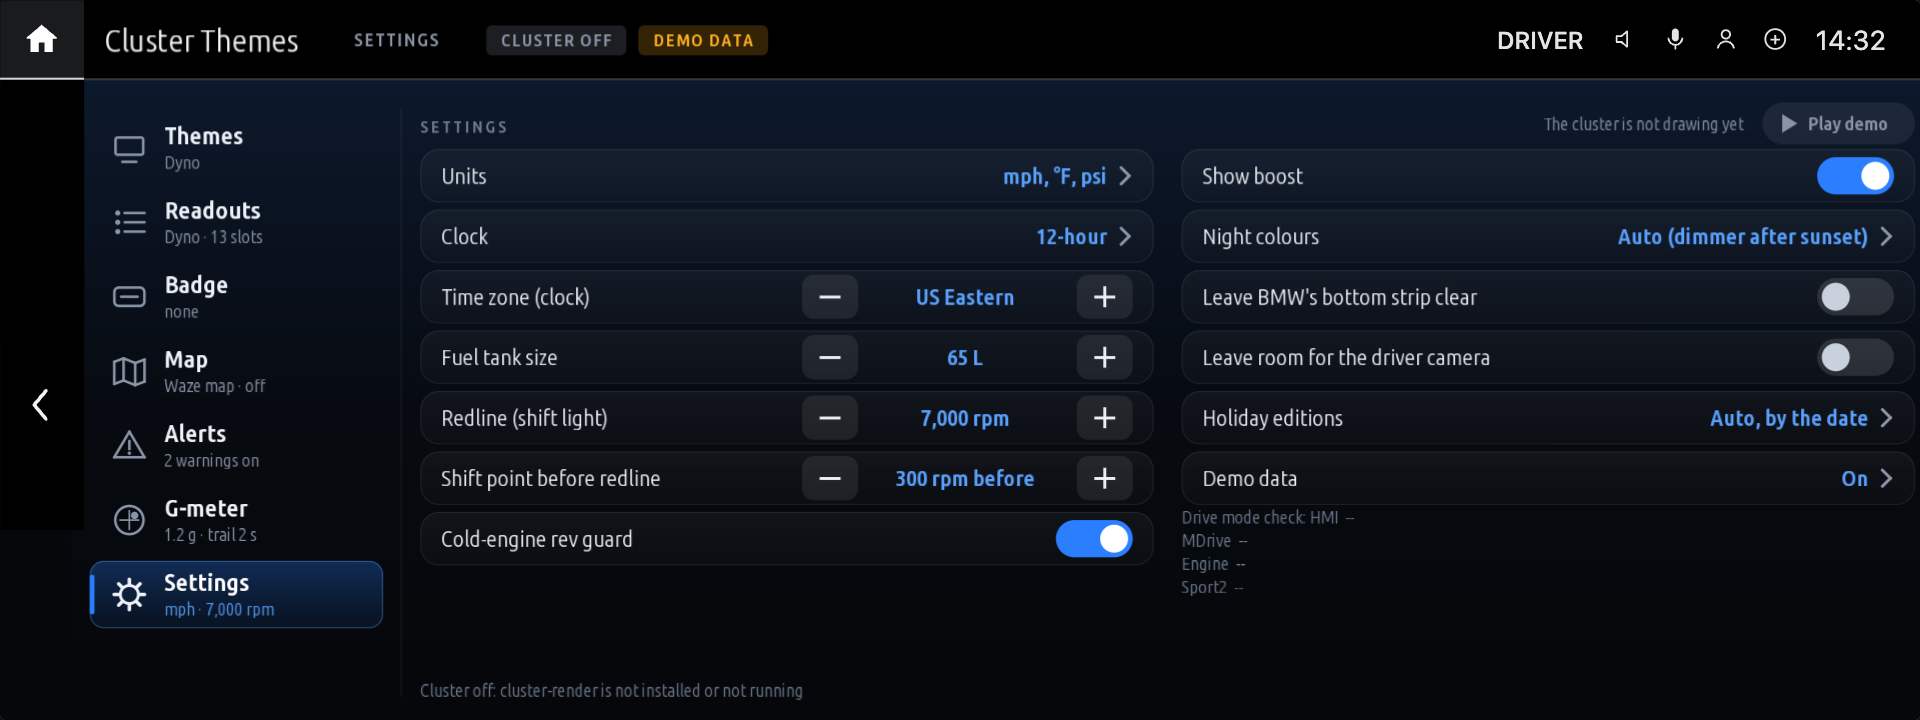
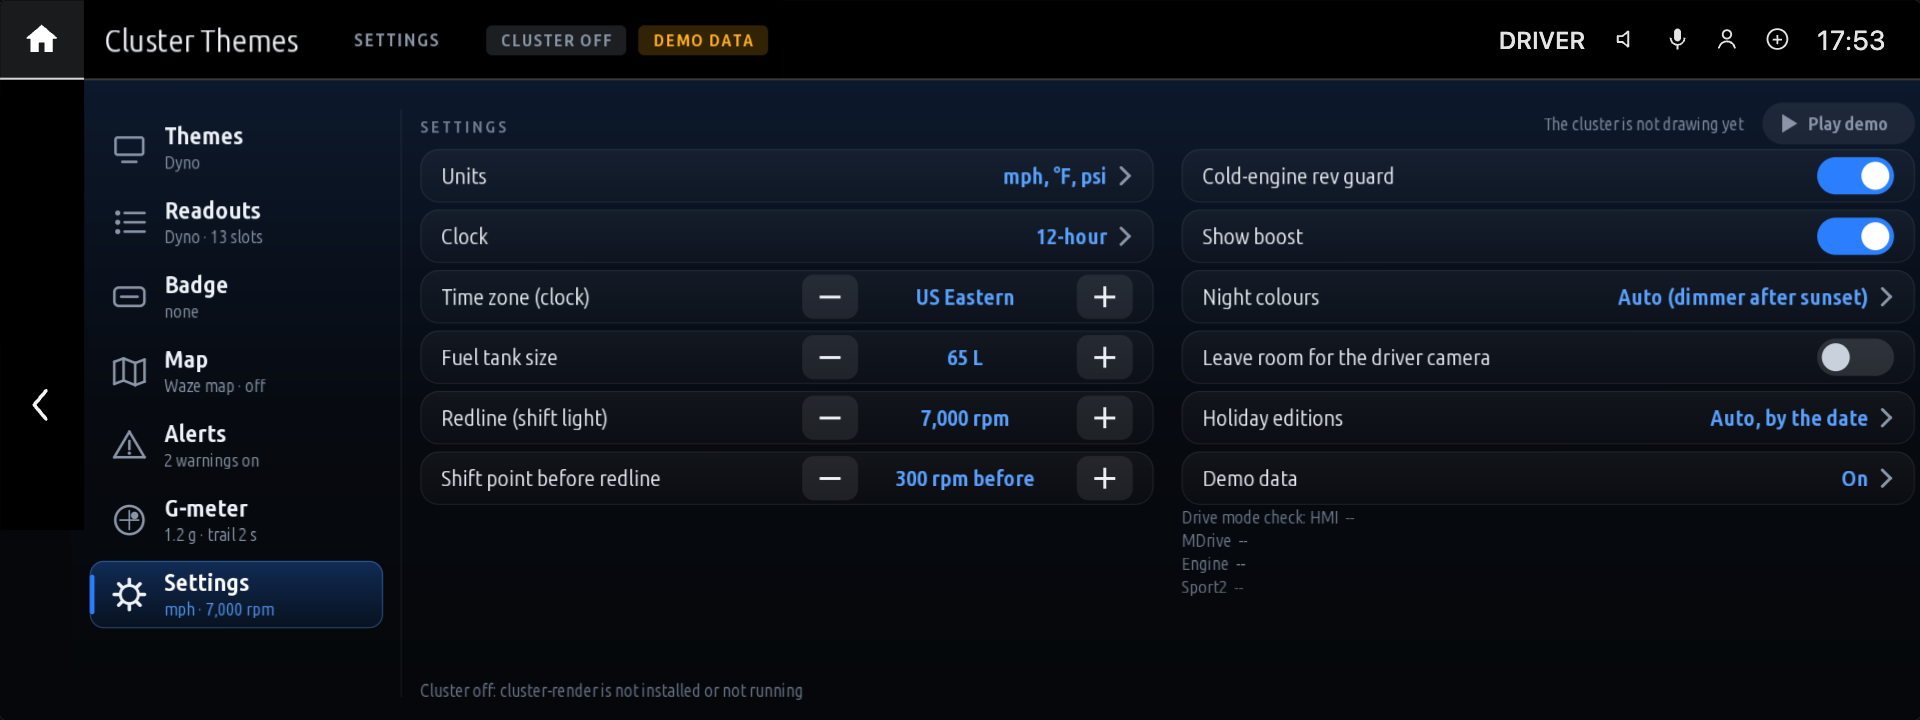
Cluster Themes 0.17.7 / HUD Widgets 0.14.5: gear letter only, switch gone

diff --git a/shared/hud.js b/shared/hud.js
@@ -1861,9 +1861,10 @@ class HudApp {
         this.nightOn = this._nightDim();
         if (this.nightOn) this.theme = dimTheme(this.theme, NIGHT_DIM);
         this.log.info('layout "' + layout.name + '", theme ' + this.theme.name + (this.layoutTheme ? '' : ' (' + this.setting('hudTheme') + ')'));
-        // full screen unless "Leave BMW's bottom strip clear" is on (Nov 14 2026): the layout's strip widgets (toggle
-        // "!stripClear", design/genlib.py full_screen) cover BMW's strip except a window over its drive mode and gear
-        // letter, and the theme's own strip row ("stripRow" l / r) shows the clock, range and outside temperature.
+        // full screen (Nov 14 2026): the layout's strip widgets (design/genlib.py full_screen) cover BMW's strip except a
+        // window over its gear letter, and the theme's own strip row ("stripRow" l / r) shows the clock, range and outside
+        // temperature. "Leave BMW's bottom strip clear" is gone again (0.17.7): with the gear letter uncovered BMW draws no
+        // black box (car test of 0.17.6), so the switch had nothing left to fix.
         // Copies, since the strip row's connection is set below.
         const shown = layout.widgets.filter((w) => !(w.toggle && !this._toggleOn(w.toggle)) && !(w.themes && w.themes.indexOf(this.themeName) < 0))
             .map((w) => (w.stripRow ? Object.assign({}, w) : w));

diff --git a/apps/cluster_themes/main.js b/apps/cluster_themes/main.js
@@ -27,7 +27,7 @@ mgu.run({
             title: ctx.spec.title, what: 'cluster',
             look: { name: 'Themes', style: 'hero', tags: { gt3: 'race dash', m: 'M8 style', sport: 'Live Cockpit', minimal: 'just the speed', roadster: 'round dials', track: 'tyres + temps', drag: '0-60 timer', rally: 'rev arc · G-meter', retro80s: '80s digital', cruise: 'calm · trip', dyno: 'safety tiles', ribbon: 'calm · holidays' } },
             tabs: ['look', 'readouts', 'badge', 'map', 'alerts', 'gmeter', 'settings'],
-            settings: ['units', 'clock', 'timeZone', 'tankLitres', 'redline', 'shiftBefore', 'coldGuard', 'showBoost', 'nightDim', 'stripClear', 'cameraNotch', 'holiday', 'demo'],
+            settings: ['units', 'clock', 'timeZone', 'tankLitres', 'redline', 'shiftBefore', 'coldGuard', 'showBoost', 'nightDim', 'cameraNotch', 'holiday', 'demo'],
             // the drive mode check's candidates this app's app.json listens to (issue #8; shared/hud.js modeDiagLines)
             modeCheck: ['HMI', 'MDrive', 'Engine', 'Sport2'],
         }).start();

diff --git a/apps/cluster_themes/README.md b/apps/cluster_themes/README.md
@@ -10,7 +10,7 @@ Redraws the whole instrument cluster in a theme of your choice. Open **Cluster T
 
 ## Themes
 
-Every theme fills the whole cluster and shows its own clock, range and outside temperature along the bottom, in the theme's style. To see BMW's own bottom strip instead (range, clock, street, drive mode, outside temperature), turn on Leave BMW's bottom strip clear on the Settings tab: the theme then ends just above it. Every theme shows the drive mode (Comfort, Sport and so on) next to the gear.
+Every theme fills the cluster and shows its own clock, range and outside temperature along the bottom, in the theme's style. Only BMW's gear letter at the bottom right stays uncovered: when a theme covers it, BMW draws a black box over the theme (issue #5). Every theme shows the drive mode (Comfort, Sport and so on) next to the gear.
 
 ### GT3
 
@@ -30,9 +30,9 @@ A race dash.
 A current M8's cluster, traced off a photo of it and drawn on black.
 
 - **Middle:** two bowed glass rev blades either side of the gear and speed, reading 0 to 7000 rpm like the M40i's own cluster. A red marker rides each blade at the rpm, the blade glows below it, and orange and red marks sit before and past your redline. The gear shows with its shifter programme: P, D3, S3 or M3, and the drive mode sits under the speed.
-- **Left:** a black card with a grey rim and four readouts where the M8 has its tyre block: boost, coolant, oil and intake air out of the box, each one changeable on the Readouts tab. The fuel dial sits over the card's lower corner, drawn like the M8's: a thin glass bracket inside a hatched chrome bezel, lit from the bottom up to the level, with a red streak at the level and another at the reserve.
-- **Right:** what the engine, chassis, steering and gearbox are set to, as four rows with a step bar, and the oil temperature dial, the same glass bracket (blue streak at the cold end, red at the hot end). The rows follow the drive mode buttons: Eco Pro, Comfort, Sport, Sport Plus and Sport Individual. The car only reports that an Individual setup is on, not what each part is set to, so those rows read INDIVIDUAL.
-- **Bottom:** the clock, range and outside temperature, or BMW's own strip with Leave BMW's bottom strip clear on.
+- **Left:** a black card with a grey rim and four readouts where the M8 has its tyre block: boost, coolant, oil and intake air out of the box, each one changeable on the Readouts tab. The fuel dial sits over the card's lower corner, drawn like the M8's: a thin glass bracket inside a hatched chrome bezel, lit from the bottom up to the level, with a thin red line at the level.
+- **Right:** what the engine, chassis, steering and gearbox are set to, as four rows with a step bar, and the oil temperature dial, the same glass bracket. The rows follow the drive mode buttons: Eco Pro, Comfort, Sport, Sport Plus and Sport Individual. The car only reports that an Individual setup is on, not what each part is set to, so those rows read INDIVIDUAL.
+- **Bottom:** the clock, range and outside temperature, with BMW's own gear letter.
 - **With the Waze map:** the blades keep their shape and numbers and move out to the sides, the map fills the middle between them, and the gear, speed and drive mode sit in a row under it.
 
 <p align="center"><img src="../../docs/images/cluster-m.png" width="900" alt="M theme"></p>
@@ -44,7 +44,7 @@ The look of BMW's newer Live Cockpit Sport view.
 - **Left:** speed as a blue bracket on BMW's 0 to 200 mph scale (0 to 320 km/h), with a fuel bar up its lower leg.
 - **Right:** revs as a red bracket on the M40i's 0 to 7000 rpm scale, with yellow and red marks around your redline, with an oil temperature bar up its lower leg.
 - **Middle:** the speed in big figures with the gear and drive mode under it, over a road like BMW's own Sport view whose lane dashes run towards you as you drive. With "Show Waze map inside the theme" on, the map takes the middle and the speed and gear move into the brackets.
-- **Bottom:** boost and coolant in the blue and red bar. Under it, the clock, range and outside temperature, or BMW's own strip with Leave BMW's bottom strip clear on.
+- **Bottom:** boost and coolant in the blue and red bar. Under it, the clock, range and outside temperature, with BMW's own gear letter.
 
 <p align="center"><img src="../../docs/images/cluster-sport.png" width="900" alt="Sport theme"></p>
 
@@ -136,7 +136,6 @@ More themes are on the way.
 - **Shift point before redline:** how far below the redline the shift lights peak (300 rpm by default).
 - **Cold-engine rev guard:** until the oil reaches 80°C, the shift point starts at 4500 rpm and climbs as the oil warms up.
 - **Show boost.**
-- **Leave BMW's bottom strip clear** (off by default): the theme ends just above BMW's own bottom strip, so the car's range, clock, street, drive mode, gear letter and outside temperature show under it, and the theme's own clock, range and outside temperature go away. Try it if BMW draws a black box over the theme: owners found that leaving the strip clear stops it (issue #5).
 - **Leave room for the driver camera** (off by default): for newer cars with a driver attention camera in the top middle of the cluster, where other cars show the model badge. The shift lights and rev bars (GT3, Track, Dyno, Rally) become two mirrored wings either side of the camera that fill from the outer ends in towards it and meet at the shift point, Track's rpm numbers are left out, M's logo is hidden, and Ribbon's ribbon dips under the camera instead. The camera's spot is taken from where the badge sits on a car without one. Not yet tested on a car with a camera; please report how it lines up on yours.
 - **Holiday editions:** a string of glowing holiday lights along the top of every theme, and Ribbon's own holiday edition. Auto (the default) puts them on by the date: Thanksgiving in its week (Monday to Sunday), Christmas from December 1 to 26, New Year from December 27 to January 2, and the Fourth of July from July 1 to 5, then takes them off again. Or pick one holiday to keep it on, or Off. The date follows the Time zone (clock) setting.
 - **G-meter** (its own tab): the range (0.8, 1.0, 1.2, 1.5 or 2.0 g at the edge; 1.2 by default), the trail (off, 1, 2 or 4 seconds), **Swap left / right** (if the dot goes the wrong way in a turn) and **Brake on top**, the best left, right, accelerating, braking and overall g of the drive with a Reset button, and a live copy of the meter. The g comes from the car's own acceleration sensor: parked on level ground it reads 0.00, and a hill adds a little.

diff --git a/CHANGELOG.md b/CHANGELOG.md
@@ -4,6 +4,11 @@ Newest first. Dates are when the build was pushed.
 
 ## Nov 14 2026
 
+- **Cluster Themes 0.17.7, HUD Widgets 0.14.5:**
+  - **Full screen leaves only BMW's gear letter uncovered.** On a test car, 0.17.6 kept BMW's black box away by leaving the drive mode and gear letter open; now the theme also covers the drive mode and leaves just the gear letter. The theme's own drive mode still shows next to its gear.
+  - **Leave BMW's bottom strip clear is gone.** With BMW's gear letter uncovered, BMW no longer draws its black box (issue #5), so the switch has nothing left to fix. If you had it on, your theme goes full screen.
+  - HUD Widgets: no change you will see.
+  - Not yet tested on a car.
 - **Cluster Themes 0.17.6, HUD Widgets 0.14.4:**
   - **Full screen leaves BMW's drive mode and gear letter uncovered.** On a test car, BMW drew its black box whenever a theme covered the gear letter in its bottom strip, and it went away once the strip was clear. Full screen now covers the strip on both sides of the drive mode and gear letter but leaves that spot open, to see if full screen can work without the box. If the box still shows on your car, turn on Leave BMW's bottom strip clear (issue #5); it goes away at the next gear change.
   - **M:** the fuel and oil dials are cleaner. A sharp red line marks the level inside the glass, the unlit glass shows faintly above it, the glass and the bezel end on the same line, and the °F and oil can sit clear of the bezel.
